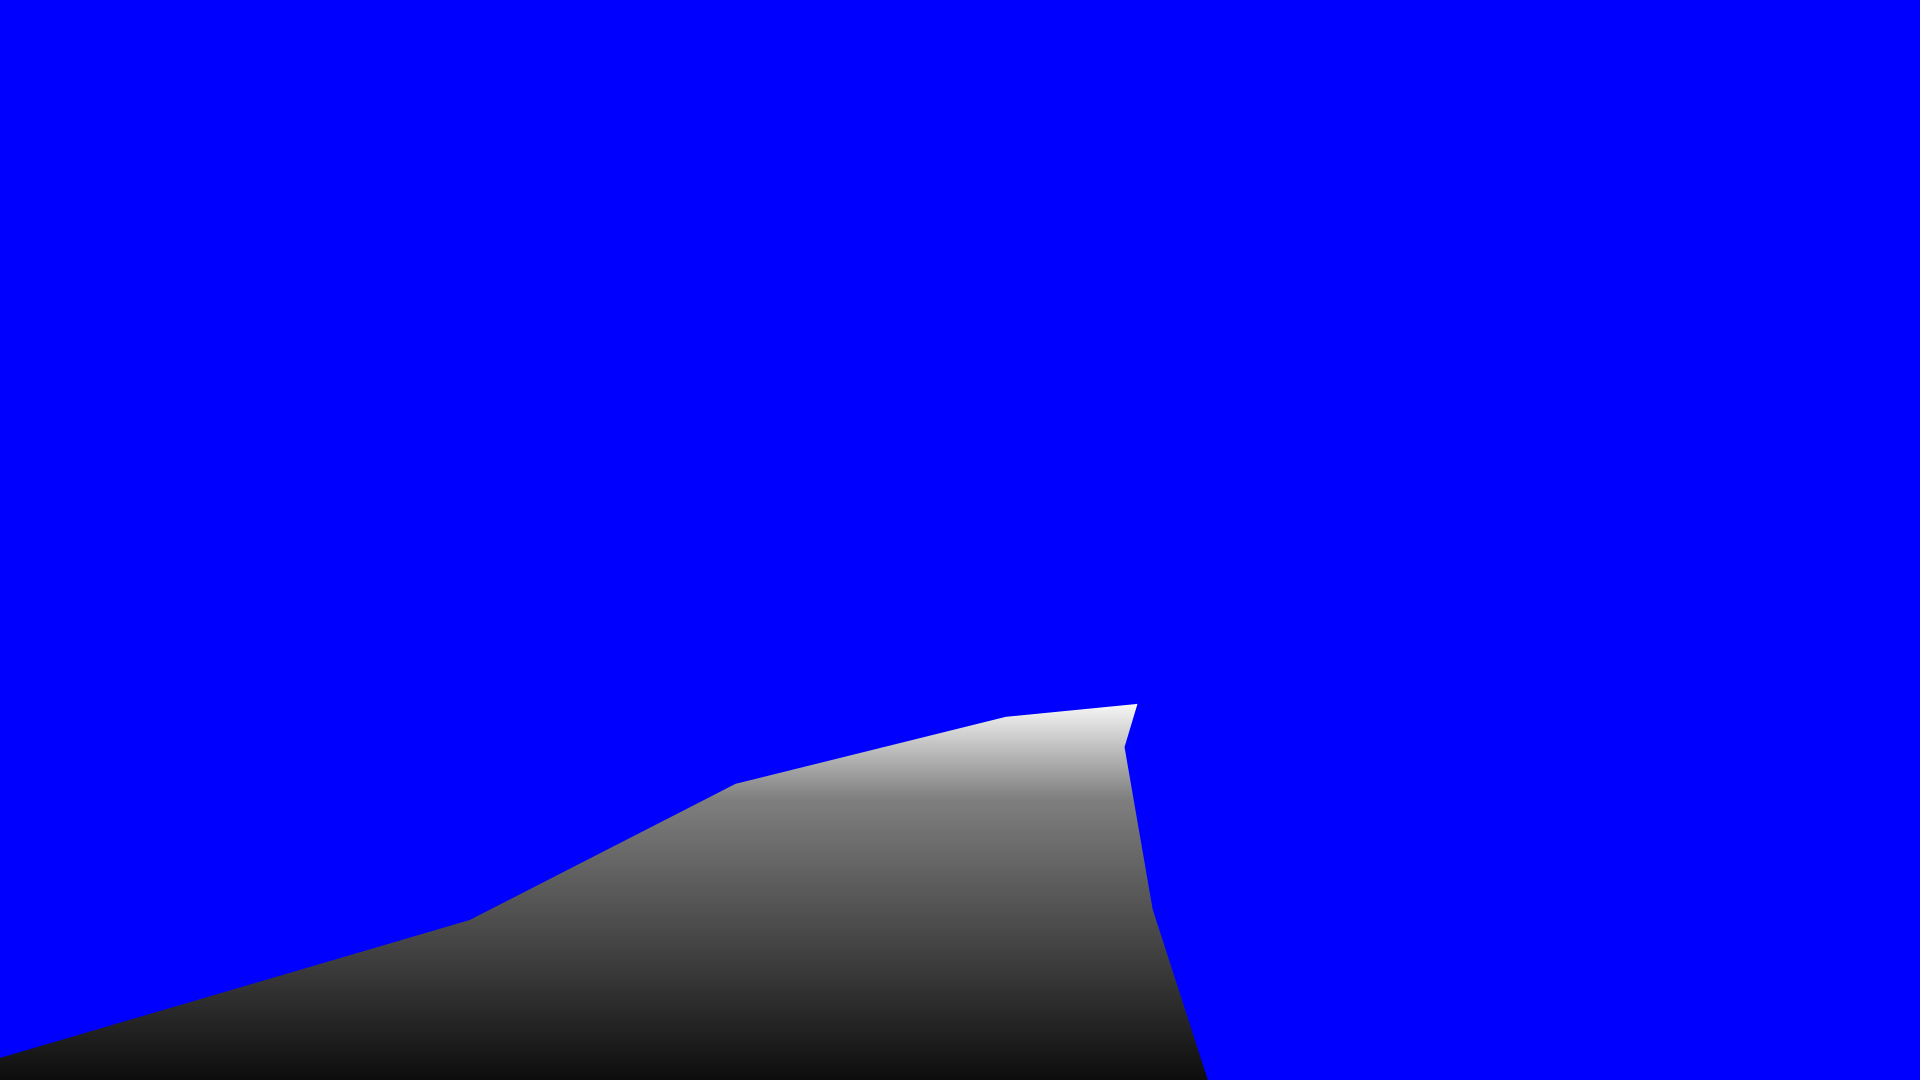
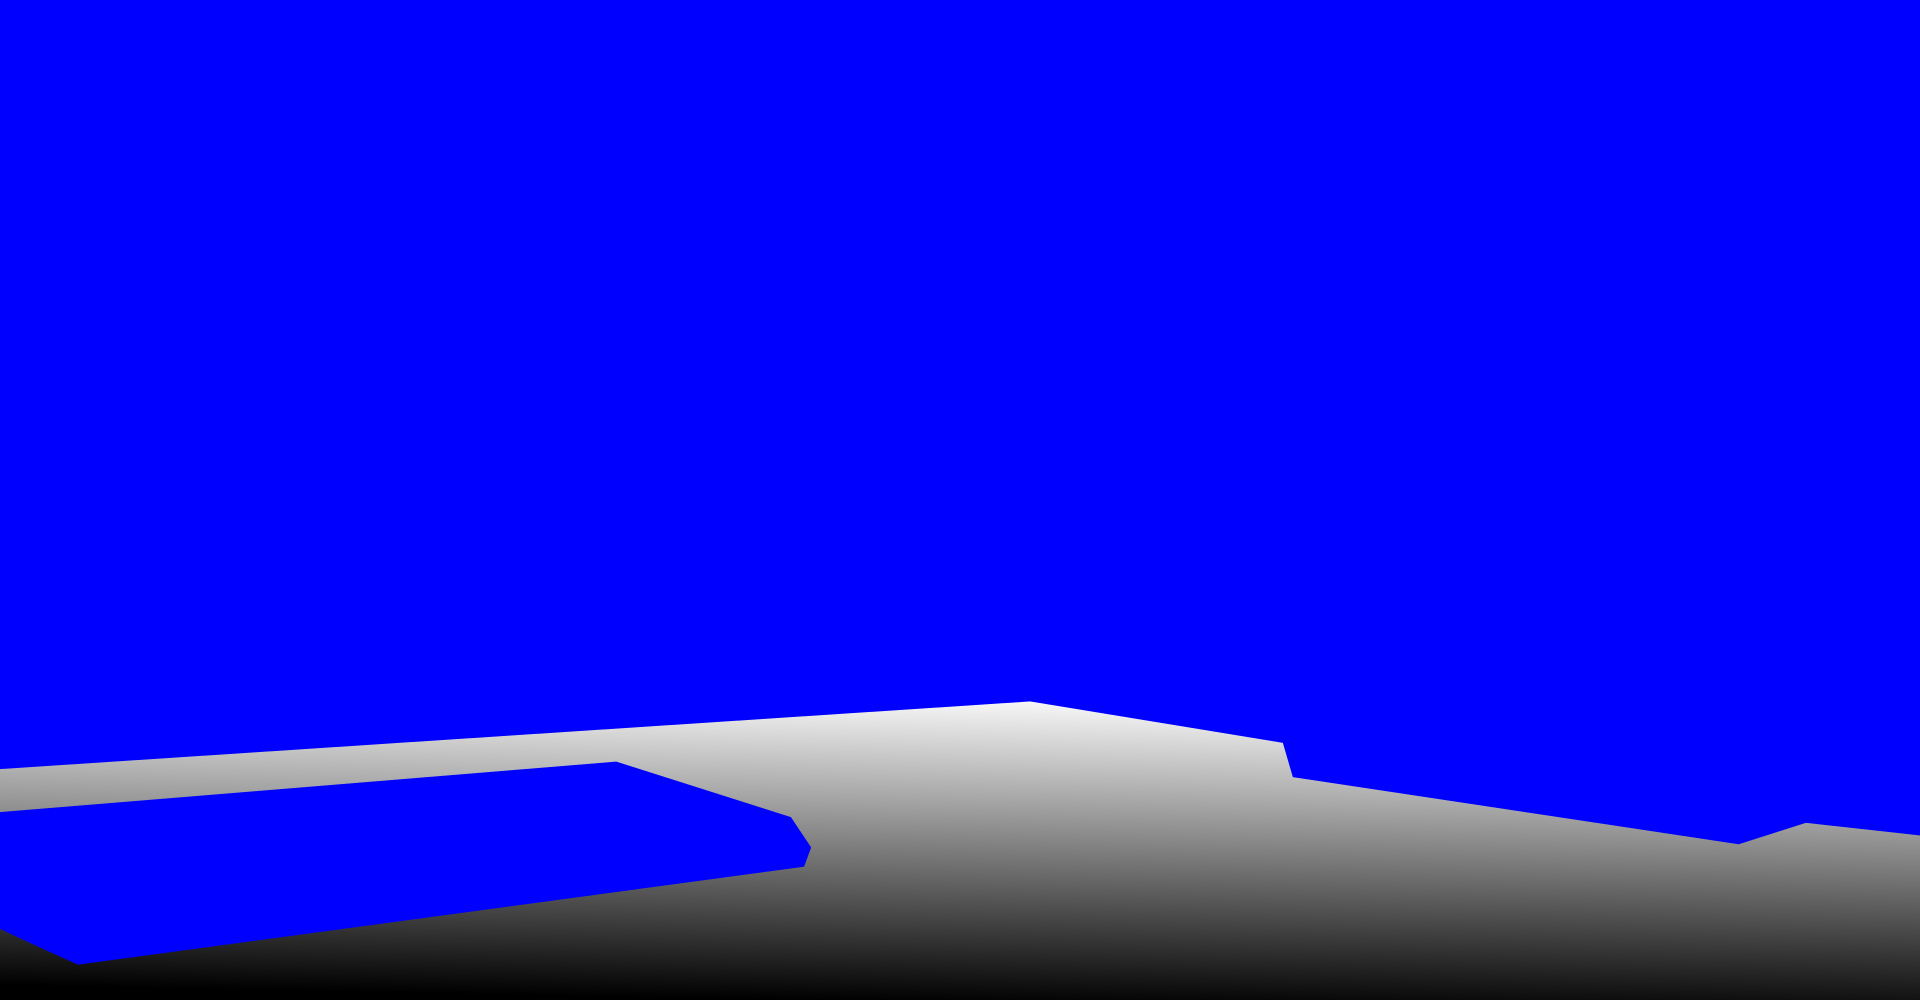
Better ground map + scenery handling

Changed region(s): [[0.0, 0.651, 1.0, 1.0]]

diff --git a/src/Sosage/System/IO.cpp b/src/Sosage/System/IO.cpp
@@ -55,10 +55,13 @@ std::string IO::read_room (const std::string& file_name)
   std::string name = input.property("name");
   std::string background = input.property("backgrounds/", "background", ".png");
   std::string ground_map = input.property("backgrounds/", "ground_map", ".png");
+  int front_z = input.int_property("front_z");
+  int back_z = input.int_property("back_z");
   
   m_content.set<Component::Image>("background:image", local_file_name(background), 0);
   m_content.set<Component::Position>("background:position", Point(0, 0));
-  m_content.set<Component::Ground_map>("background:ground_map", local_file_name(ground_map));
+  m_content.set<Component::Ground_map>("background:ground_map", local_file_name(ground_map),
+                                       front_z, back_z);
 
   std::string body = input.property("sprites/", "body", ".png");
   std::string head = input.property("sprites/", "head", ".png");
@@ -69,7 +72,7 @@ std::string IO::read_room (const std::string& file_name)
     Component::Animation_handle abody
       = m_content.set<Component::Animation>("character_body:image", local_file_name(body),
                                             0, 9, 5);
-    abody->set_relative_origin(0.5, 0.9);
+    abody->set_relative_origin(0.5, 0.95);
   
     Component::Animation_handle ahead
       = m_content.set<Component::Animation>("character_head:image", local_file_name(head),
@@ -81,7 +84,7 @@ std::string IO::read_room (const std::string& file_name)
 
   
     Component::Position_handle phead
-      = m_content.set<Component::Position>("character_head:position", Point(x, y - 290));
+      = m_content.set<Component::Position>("character_head:position", Point(x, y - config().head_gap));
   
     Component::Ground_map_handle ground_map
       = m_content.get<Component::Ground_map>("background:ground_map");
@@ -94,7 +97,7 @@ std::string IO::read_room (const std::string& file_name)
     abody->rescale (z_at_point);
     ahead->rescale (z_at_point);
     ahead->z() += 1;
-    phead->set (pbody->value() - abody->core().scaling * Vector(0, 290));
+    phead->set (pbody->value() - abody->core().scaling * Vector(0, config().head_gap));
 
   }
   
@@ -108,6 +111,7 @@ std::string IO::read_room (const std::string& file_name)
       std::string name = input.property("name");
       int x = input.int_property("x");
       int y = input.int_property("y");
+      int z = input.int_property("z");
       
       m_content.set<Component::Text>(id + ":name", name);
       Component::State_handle state_handle
@@ -117,12 +121,12 @@ std::string IO::read_room (const std::string& file_name)
 
       Component::State_conditional_handle conditional_handle;
 
-      input = input.next_child();
+      Core::IO::Element child = input.next_child();
 //      do
       {
-        check (input.name() == "state", "Expected state for  " + id + ", got " + input.name());
-        std::string state = input.property("id");
-        std::string skin = input.property("sprites/", "skin", ".png");
+        check (child.name() == "state", "Expected state for  " + id + ", got " + child.name());
+        std::string state = child.property("id");
+        std::string skin = child.property("sprites/", "skin", ".png");
 
         // init with first state found
         bool init = false;
@@ -139,17 +143,12 @@ std::string IO::read_room (const std::string& file_name)
           = Component::make_handle<Component::Image>(id + ":image", local_file_name(skin), 0);
         img->set_relative_origin(0.5, 1.0);
 
-        if (init)
-          pos->set (Point(pos->value().x() + img->width() / 2, pos->value().y() + img->height()));
-
-        Component::Ground_map_handle ground_map = m_content.get<Component::Ground_map>("background:ground_map");
-  
-        img->z() = ground_map->z_at_point (pos->value()) - 1;
+        img->z() = z;
         debug("Object " + id + ":" + state + " at position " + std::to_string(img->z()));
 
         conditional_handle->add(state, img);
       }
-//      while ((input = input.next()));
+//      while ((child = child.next()));
 
     }
     else if (input.name() == "npc")
@@ -158,7 +157,19 @@ std::string IO::read_room (const std::string& file_name)
     }
     else if (input.name() == "scenery")
     {
-
+      std::string id = input.property("id");
+      int x = input.int_property("x");
+      int y = input.int_property("y");
+      int z = input.int_property("z");
+      std::string skin = input.property("sprites/", "skin", ".png");
+      
+      Component::Position_handle pos
+        = m_content.set<Component::Position>(id + ":position", Point(x,y));
+      Component::Image_handle img
+        = m_content.set<Component::Image>(id + ":image", local_file_name(skin), 0);
+      img->set_relative_origin(0.5, 1.0);
+      img->z() = z;
+      debug("Scenery " + id + " at position " + std::to_string(img->z()));
     }
   }
   while ((input = input.next()));

diff --git a/src/Sosage/Component/Ground_map.cpp b/src/Sosage/Component/Ground_map.cpp
@@ -12,7 +12,8 @@ namespace Sosage::Component
 {
 
 Ground_map::Ground_map (const std::string& id,
-                        const std::string& file_name)
+                        const std::string& file_name,
+                        int front_z, int back_z)
   : Base(id)
 {
   Core::Graphic::Surface source = Core::Graphic::load_surface (file_name);
@@ -35,7 +36,7 @@ Ground_map::Ground_map (const std::string& id,
 
       if (color[0] == color[1] && color[0] == color[2])
       {
-        m_data(x,y).z = config().world_depth * (1. - (color[0] / 255.)) + 1;
+        m_data(x,y).z = back_z + (front_z - back_z) * (1. - (color[0] / 255.));
         m_data(x,y).target_x = -1;
         m_data(x,y).target_y = -1;
       }
@@ -109,7 +110,7 @@ Ground_map::Ground_map (const std::string& id,
     }
   }
 
-#if 0
+#if 1
   {
     std::ofstream dbg ("dbg.ppm");
     dbg << "P3" << std::endl << m_data.width() << " " << m_data.height()
@@ -141,9 +142,9 @@ Ground_map::Ground_map (const std::string& id,
           }
           else
           {
-            r = int(255 * (m_data(x,y).z / double(config().world_depth)));
-            g = int(255 * (m_data(x,y).z / double(config().world_depth)));
-            b = int(255 * (m_data(x,y).z / double(config().world_depth)));
+            r = 255;
+            g = 255;
+            b = 255;
           }
         }
         else
@@ -176,6 +177,11 @@ void Ground_map::find_path (const Point& origin,
   //  correct target position to reach true ground
   int x = target.x(GROUND);
   int y = target.y(GROUND);
+
+  if (x >= m_data.width())
+    x = m_data.width() - 1;
+  if (y >= m_data.height())
+    y = m_data.height() - 1;
 
   if (m_data(x,y).target_x != -1)
   {

diff --git a/include/Sosage/Third_party/XML.h b/include/Sosage/Third_party/XML.h
@@ -59,11 +59,25 @@ public:
     {
       return prefix + property(key) + suffix;
     }
-    int int_property (const std::string& key)
+    
+    int int_property (const std::string& key, const int& def = -1)
     {
       xmlChar* c = xmlGetProp (m_node, (const xmlChar*)(key.c_str()));
+      if (def != -1 && c == nullptr)
+        return def;
       check (c != nullptr, "Cannot read int property " + key);
       int out = std::atoi ((const char*)c);
+      xmlFree(c);
+      return out;
+    }
+    double double_property (const std::string& key,
+                            const double& def = std::numeric_limits<double>::quiet_NaN())
+    {
+      xmlChar* c = xmlGetProp (m_node, (const xmlChar*)(key.c_str()));
+      if (def != std::numeric_limits<double>::quiet_NaN() && c == nullptr)
+        return def;
+      check (c != nullptr, "Cannot read double property " + key);
+      double out = std::atof ((const char*)c);
       xmlFree(c);
       return out;
     }

diff --git a/src/Sosage/System/Logic.cpp b/src/Sosage/System/Logic.cpp
@@ -25,9 +25,7 @@ void Logic::main()
     = m_content.request<Component::Position>("mouse:clicked");
   if (clicked && collision)
   {
-    if (collision->id() == "background:image")
-      compute_path_from_target(clicked);
-    else if (Component::Text_handle name = m_content.request<Component::Text>(collision->entity() + ":name"))
+    if (Component::Text_handle name = m_content.request<Component::Text>(collision->entity() + ":name"))
     {
       if (m_content.get<Component::Text> ("chosen_verb:text")->entity() == "verb_goto")
         compute_path_from_target(m_content.get<Component::Position>(collision->entity() + ":position"));
@@ -37,6 +35,9 @@ void Logic::main()
 
       }
     }
+    else
+      compute_path_from_target(clicked);
+    
     m_content.remove("mouse:clicked");
     m_content.remove("mouse:target");
   }

diff --git a/include/Sosage/Utils/vector_2.h b/include/Sosage/Utils/vector_2.h
@@ -26,14 +26,14 @@ public:
   {
     dbg_check (x + m_width * y < m_data.size(), "Access to vector_2["
                + std::to_string(x) + ";" + std::to_string(y) + "] out of bounds ["
-               + std::to_string(width()) + "; " + std::to_string(height()));
+               + std::to_string(width()) + "; " + std::to_string(height()) + "]");
     return m_data[x + m_width * y];
   }
   T& operator() (std::size_t x, std::size_t y)
   {
     dbg_check (x + m_width * y < m_data.size(), "Access to vector_2["
                + std::to_string(x) + ";" + std::to_string(y) + "] out of bounds ["
-               + std::to_string(width()) + "; " + std::to_string(height()));
+               + std::to_string(width()) + "; " + std::to_string(height()) + "]");
     return m_data[x + m_width * y];
   }
 };

diff --git a/include/Sosage/Config.h b/include/Sosage/Config.h
@@ -16,11 +16,12 @@ struct Config
   const int gui_fps;
   const int animation_fps;
   const int character_speed;
+  const int head_gap;
   
   int interface_height;
   int window_width;
   int window_height;
-  
+
   double ground_map_scaling;
 
   bool fullscreen;
@@ -29,10 +30,11 @@ struct Config
     : world_width (1920)
     , world_height (1000)
     , world_depth (3240)
-    , ground_map_width (150)
+    , ground_map_width (300)
     , gui_fps (30)
     , animation_fps (12)
-    , character_speed (340 / animation_fps)
+    , character_speed (34)
+    , head_gap (320)
     , interface_height (200)
     , window_width (window_width)
     , window_height (window_width * 10 / 16)

diff --git a/src/Sosage/System/Animation.cpp b/src/Sosage/System/Animation.cpp
@@ -87,13 +87,14 @@ void Animation::compute_movement_from_path (Component::Path_handle path)
   double new_z = ground_map->z_at_point (pos);
   abody->rescale (new_z);
   ahead->rescale (new_z);
+  ahead->z() += 1;
   pbody->set(pos);
 
 
   if (direction.x() > 0)
-    phead->set (pbody->value() - abody->core().scaling * Vector(0, 290));
+    phead->set (pbody->value() - abody->core().scaling * Vector(0, config().head_gap));
   else
-    phead->set (pbody->value() - abody->core().scaling * Vector(-10, 290));
+    phead->set (pbody->value() - abody->core().scaling * Vector(-10, config().head_gap));
 
       
 }

diff --git a/include/Sosage/Component/Ground_map.h b/include/Sosage/Component/Ground_map.h
@@ -44,7 +44,8 @@ class Ground_map : public Base
 
 public:
 
-  Ground_map (const std::string& id, const std::string& file_name);
+  Ground_map (const std::string& id, const std::string& file_name, int front_z, int back_z);
+  
   void find_path (const Point& origin, const Point& target,
                   std::vector<Point>& out);
   double z_at_point (const Point& p) const;
